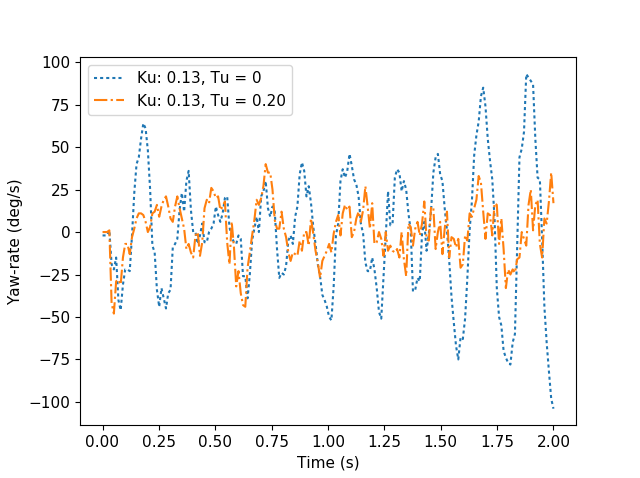
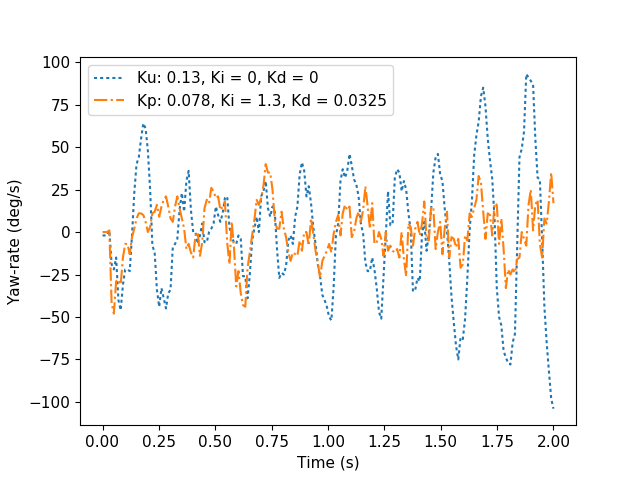
Update control design!

Changed region(s): [[0.2188, 0.1464, 0.625, 0.2343]]

diff --git a/Latex/Thesis/chapters/design_and_implementation.tex b/Latex/Thesis/chapters/design_and_implementation.tex
@@ -232,13 +232,14 @@ The maximum duty cycle is bounded by the amount of current that the buck convert
 Lowering the duty cycle reduces both the maximum current peak and the steady state current, which is used to reduce the motor start current demand.
 The maximum duty cycle can be found by increasing the minimum duty cycle of each motor with the same value until the robot is unable to start a movement.
 The last working value is stored as a calibration value to limit the duty cycle, and the average maximum duty cycle is given in Table \ref{tab:duty_cycle}.
+The maximum duty cycle values are all below the calculated free running maximum duty cycle, as previously determined in Section \ref{sec:pre_dc_motor_locomotion}
 
 
 \subsection{Closed loop feedback for controlled movements}
 
 %The robot uses two physically different motors in differential drive configuration which are mounted in a non-symmetrical way.
 Open loop movement using calibrated motor values has been used in previous work \cite{legoc_uist_2016}, but it can be time consuming and any little disturbance will trow the robot off course.
-Controlled movements are possible using closed loop feedback, where the heading is used to update the motor control values.
+Controlled movements can be achieved using closed loop feedback, where the heading is used to update the motor control values.
 The robots relative change in heading can be obtained from the gyroscope and corresponds to the yaw-rate.
 
 \subsubsection{PID Controller}
@@ -257,38 +258,55 @@ The controller will periodically try to reduce the yaw error as follows
 
 \noindent
 where $\psi_{\text{target}}$ is the yaw-rate target and $\psi(t)$ the yaw-rate obtained by the gyroscope.
-The PID controller will now adjust its output and correct the speed of each motor, in opposite direction, by the following equation
+The PID controller will now adjust its output, and correct the speed of each motor in opposite direction, by the following equation
 
 \begin{equation}
-u(t) = K_{p}e(t) + K_{i} \int_{0}^{t}e(\tau)d\tau + Kd\frac{d}{dt}e(t)
+u(t) = K_{\text{p}}e(t) + K_{\text{i}} \int_{0}^{t}e(\tau)d\tau + K_{\text{d}}\frac{d}{dt}e(t)
 \end{equation}
 
 \noindent
 where $K_{p}$, $K_{i}$ and $K_{d}$ are the tunable gains from the PID controller.
+Using the gains the controller will continuously adjust the motor speed in order to reduce the error to zero.
 
-\subsubsection{Controlled straight movements}
+\subsubsection{Controlled movements}
 
+The robot will be able to execute two distinct movement, straight and curved movements.
 For controlled straight movements horizontal movement is undesired, therefore the target yaw-rate is set to zero.
-The controller will continuously adjust the motor speed in order to achieve this.
+For curved movements however, an desired yaw-rate set point needs to be specified.
+The yaw-rate set point can for example be determined from the radius of the circle that the robot needs to turn and a calibrated speed.
 
-\subsubsection{Controlled curved movements} 
-
-Instead of an angular velocity set point of zero, an turn rate needs to be specified.
-This desired angular velocity can be a determined from the radius of the circle that the robot needs to turn and the calibrated target speed.
+\begin{table}[t]
+	\centering
+	\caption{Ziegler-Nicholos PID gain estimator chart}
+	\label{tab:gain_chart}
+	\begin{tabular}{|l|l|l|} 
+		\hline
+		$K_{\text{p}}$ & $T_{\text{i}}$ & $T_{\text{d}}$ \\
+		\hline \hline
+		0.6$K_{\text{u}}$ & $T_{\text{u}}/2$ & $T_{\text{u}}/8$ \\
+		\hline
+	\end{tabular}
+\end{table}
 
 \subsubsection{PID tuning using Ziegler-Nichols method}
 
-%TODO -Write about tuning the pid controller using Ziegler–Nichols tuning method (method 2), closed loop, Critical gain.
+Tuning can be done by a trail and error approach but a faster way of tuning is to use the closed loop Ziegler-Nichols method~\cite{franklin_feedback_2015}.
+In the ultimate gain method, the tunable gains are adjusted by evaluating the amplitude and frequency of observed oscillations by the system.
+Initially the integral gain and the derivative gain, $K_{\text{i}}$ and $K_{\text{d}}$ respectively, are set to zero.
+Then the proportional gain $K_{p}$ is increased from zero until stable and constant oscillation occurs, which corresponds to the ultimate gain $K_{\text{u}}$.
+The ultimate period $T_{\text{u}}$ is equal to the corresponding period and should be measured at zero crossings of the oscillation.
 
-Tuning can be done by a trail and error approach but a faster way of tuning is to use the Zigeler-Nicholos method.
-It starts with increasing or decreasing $K_{p}$ until constant oscillation occurs.
-From Figure \ref{fig:ultimate_gain} can be seen how the proportional gain was increased until eventually the robot started to oscillate.
-With a proportional gain of 0.13 the robot starts light oscillation at the end, but this is not always the case and can be a result of the surface the robot was driving on.
-% Tell something about how the right values are determined
-To reduce the oscillation a $T_{u}$ of 0.2 was added as can be determined from Figure \ref{fig:gain_tuning}.
-From this figure can be seen that the robot is more stable and does not have the tendency to oscillate anymore.
-%Robots was driving on surface that was not super flat, therefore the gyro signal is noisy.
-The tuning process was speeded up by setting the minimum motor duty cycle as it made the robot a lot more responsive, this was described earlier in Section \ref{sec:motor_control}.
+\subsubsection{Experimental ultimate gain and period determination}
+
+To find the ultimate gain and period, a robot is programmed to execute a two second straight movement.
+The yaw-rate data is stored in non-volatile memory in order to retrieve it using a programmer, after the robot has preformed the movement.
+In Figure \ref{fig:ultimate_gain} two second yaw-rate measurement traces are shown for increased proportional gains.
+With a proportional gain of 0.13 the robot shows roughly constant oscillation.
+On the other hand for a gain of 0.14 the robot shows unstable behavior due to a small disturbance after one second, resulting in oscillations that keep increasing in amplitude.
+The ultimate period is determined to be equal to $T_{u} = 0.2$, and is used together with the ultimate gain to determine the tuning parameters from the gain chart in Table \ref{tab:gain_chart}.
+The integral gain and derivative gain can now be determined to be equal to $K_{\text{i}}  = K_{\text{p}} / T_{\text{i}}$ and $K_{\text{d}}  = K_{\text{p}}T_{\text{d}}$ respectively.
+Figure \ref{fig:gain_tuning} shows how the oscillations were removed by setting the tunable gains according to the closed loop Ziegler-Nichols method.
+The tuning process was speeded up by setting the minimum motor duty cycle as it made the robot a lot more responsive, this was described earlier in Section \ref{sec:cd_pwm_frequency}.
 
 %TODO -Add figure with critcial gain + mark period Tu
 
@@ -306,20 +324,21 @@ The tuning process was speeded up by setting the minimum motor duty cycle as it 
 	\caption{Tuning the PID controller using the ultimate gain method.}
 \end{figure}
 
-\subsubsection{Controlled turns}
+%\subsubsection{Controlled turns}
 
-The control loop for controlled turning uses the angle, which is obtained by integrating the yaw-rate sensor data from the gyroscope.
-A P controller is used to rotate the robot to the desired angle, the proportional gain is directly influencing turn speed of the robot.
-The motor control values are set to run the motors opposite directions and are equal to the output of the P controller.
-These values will keep decreasing until the robot rotates to the desired angle.
+%The control loop for controlled turning uses the angle, which is obtained by integrating the yaw-rate sensor data from the gyroscope.
+%A P controller is used to rotate the robot to the desired angle, the proportional gain is directly influencing turn speed of the robot.
+%The motor control values are set to run the motors opposite directions and are equal to the output of the P controller.
+%These values will keep decreasing until the robot rotates to the desired angle.
 
 
 \section{Software Implementation}
 \label{sec:dai_software_implementation}
 
-The robot can be controlled using three different commands, one for straight trajectories, one for left and one for right turns.
-When a command is executed a control loop will run until the provided target is reached.
-A timer will call an interrupt service routine with a frequency of a 100\,Hz, that executes the control loop.   
+The robot can be controlled using three different commands, one for straight trajectories, one for curved right turns and one for curved left turns.
+%one for left and one for right turns.
+When a command is executed a control loop will run until the provided target is reached
+A timer running at a frequency of a 100\,Hz will call an interrupt service routine that executes the control loop.   
 Each command requires different initial values, set points and tuning parameters, these are set accordingly before the control loop is enabled.
 
 
@@ -332,6 +351,7 @@ When the timer reaches a value that corresponds to a value one of the compare re
 This way the overhead is minimized because no interrupt service routine is required.
 
 and will be added to the added to every motor set point.
+
 \subsection{Controlled Straight Movements}
 
 Target motor speed 

diff --git a/Latex/Thesis/chapters/preliminaries.tex b/Latex/Thesis/chapters/preliminaries.tex
@@ -253,7 +253,7 @@ In this section two different locomotions types will be evaluated, the stepper m
 
 \subsection{Stepper motor-based Locomotion}
 
-The GRITSBot~\cite{pickem_icra_2015} uses stepper motors based locomotion which already include basic odometry, as described in Section \ref{sec:locomotion}.
+The GRITSBot~\cite{pickem_icra_2015} uses stepper motors based locomotion which already include basic odometry, as described in Section \ref{sec:rw_locomotion}.
 This section will further investigate the use of stepper motor based locomotion for a transiently-powered robot.
 
 \subsubsection{Operation of a Stepper Motor}
@@ -366,7 +366,7 @@ The results show that the 2.2\,V supply voltage reduces the start current peak t
 This is still above 110\,mA and the robot needs to power two motors in a differential drive configuration to allow steering.
 A solution is to use Pulse Width Modulation (PWM) to reduce the motor speed and average current consumed.
 Combining PWM with a large bulk capacitor should enable the buck converter to start the motors.
-However the PWM duty cycle will be limited to a maximum of $100/(2*140/110) = 39.2\%$, and will be further reduced by the load applied to the motors as a result of the robots own weight.
+However the PWM duty cycle will be limited to a maximum of $100/(2*140/110) \approx 39\%$, and will be further reduced by the load applied to the motors as a result of the robots own weight.
 
 
 \subsection{Conclusion}

diff --git a/Code/Python/Plot pid data/plot_pid_data.py b/Code/Python/Plot pid data/plot_pid_data.py
@@ -140,6 +140,6 @@ if 1:
     plt.xlabel('Time (s)', fontsize=11)
     plt.xticks(fontsize=11)
     plt.yticks(fontsize=11)
-    plt.legend(('Ku: 0.13, Tu = 0', 'Ku: 0.13, Tu = 0.20'), loc='upper left', fontsize=11)
+    plt.legend(('Ku: 0.13, Ki = 0, Kd = 0', 'Kp: 0.078, Ki = 1.3, Kd = 0.0325'), loc='upper left', fontsize=11)
 
     plt.show()
